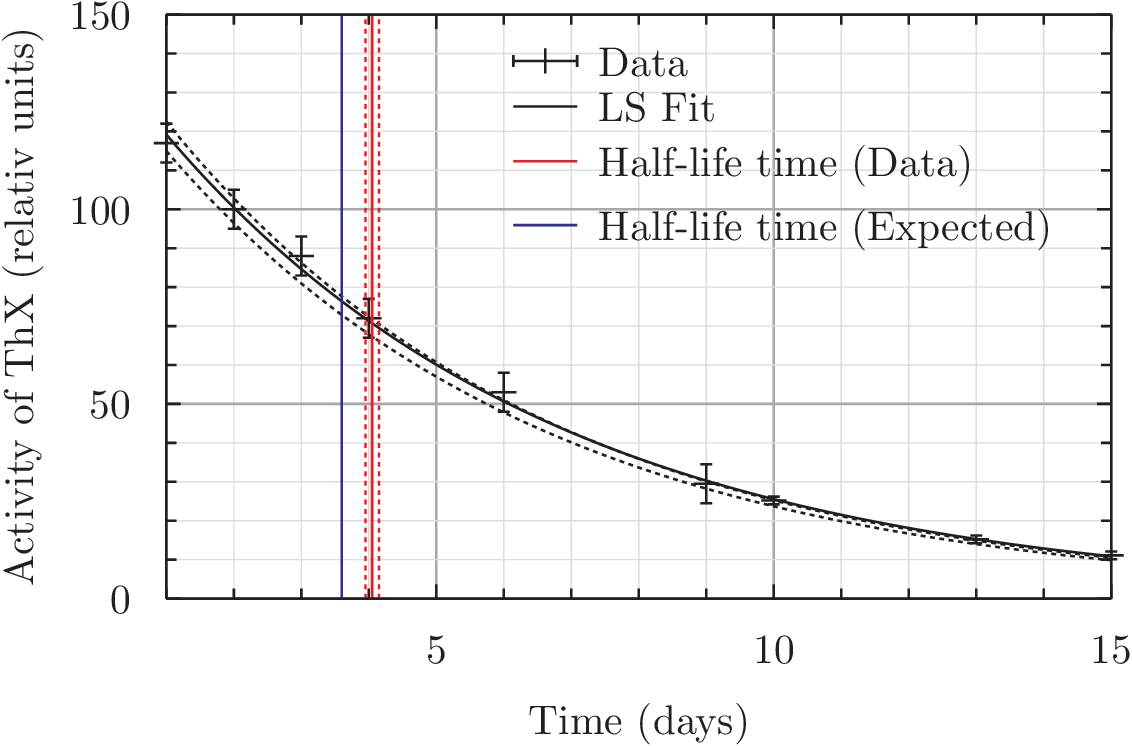
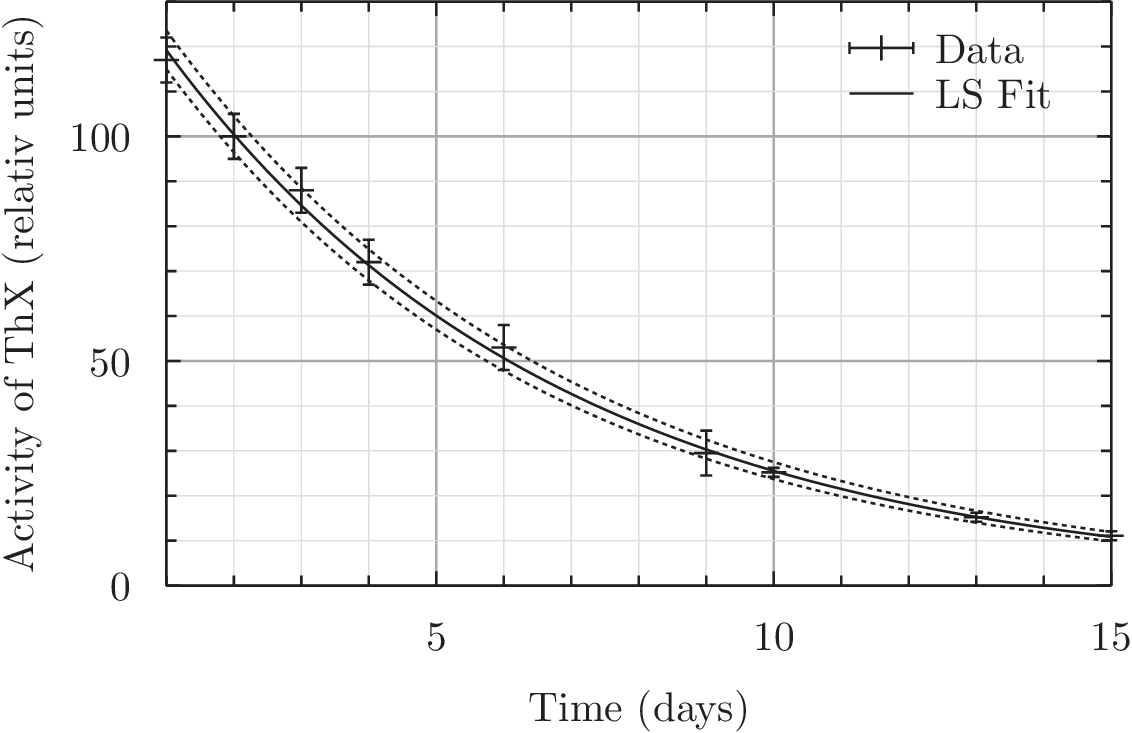
did lsFit

diff --git a/homework/LeastSquaresFit/C/main.cs b/homework/LeastSquaresFit/C/main.cs
@@ -35,13 +35,7 @@ class main{
 
 		var aLim = new vector(new double[] {Exp(c[0]-dc[0]), Exp(c[0]+dc[0])});
 		var lambdaLim = new vector(new double[] {c[1]-dc[1], c[1]+dc[1]});
-		
-		// Half-life time 
-		double t05data = Log(2)/lambda;
-		double t05min = Log(2)/lambdaLim[0]; 
-		double t05max = Log(2)/lambdaLim[1]; 
-		double t05exact = 3.6;
-
+	
 
 		// Write data to file
 		for(int i=0; i<t.size; i++){
@@ -52,16 +46,8 @@ class main{
 		WriteLine("");
 
 		for(double time=t[0]; time <= t[t.size-1]; time+=0.1){
-			WriteLine($"{time}	{a*Exp(-lambda*time)}	{aLim[0]*Exp(-lambdaLim[1]*time)}	{aLim[1]*Exp(-lambdaLim[1]*time)}");
+			WriteLine($"{time}	{a*Exp(-lambda*time)}	{aLim[0]*Exp(-lambdaLim[1]*time)}	{aLim[1]*Exp(-lambdaLim[0]*time)}");
 		}
-
-		WriteLine("");
-		WriteLine("");
-		WriteLine($"{t05data}	{t05min}	{t05max}	{t05exact}	{0}");
-		WriteLine($"{t05data}	{t05min}	{t05max}	{t05exact}	{150}");
-
-		WriteLine("");
-		WriteLine("");
 		
 	}
 }
